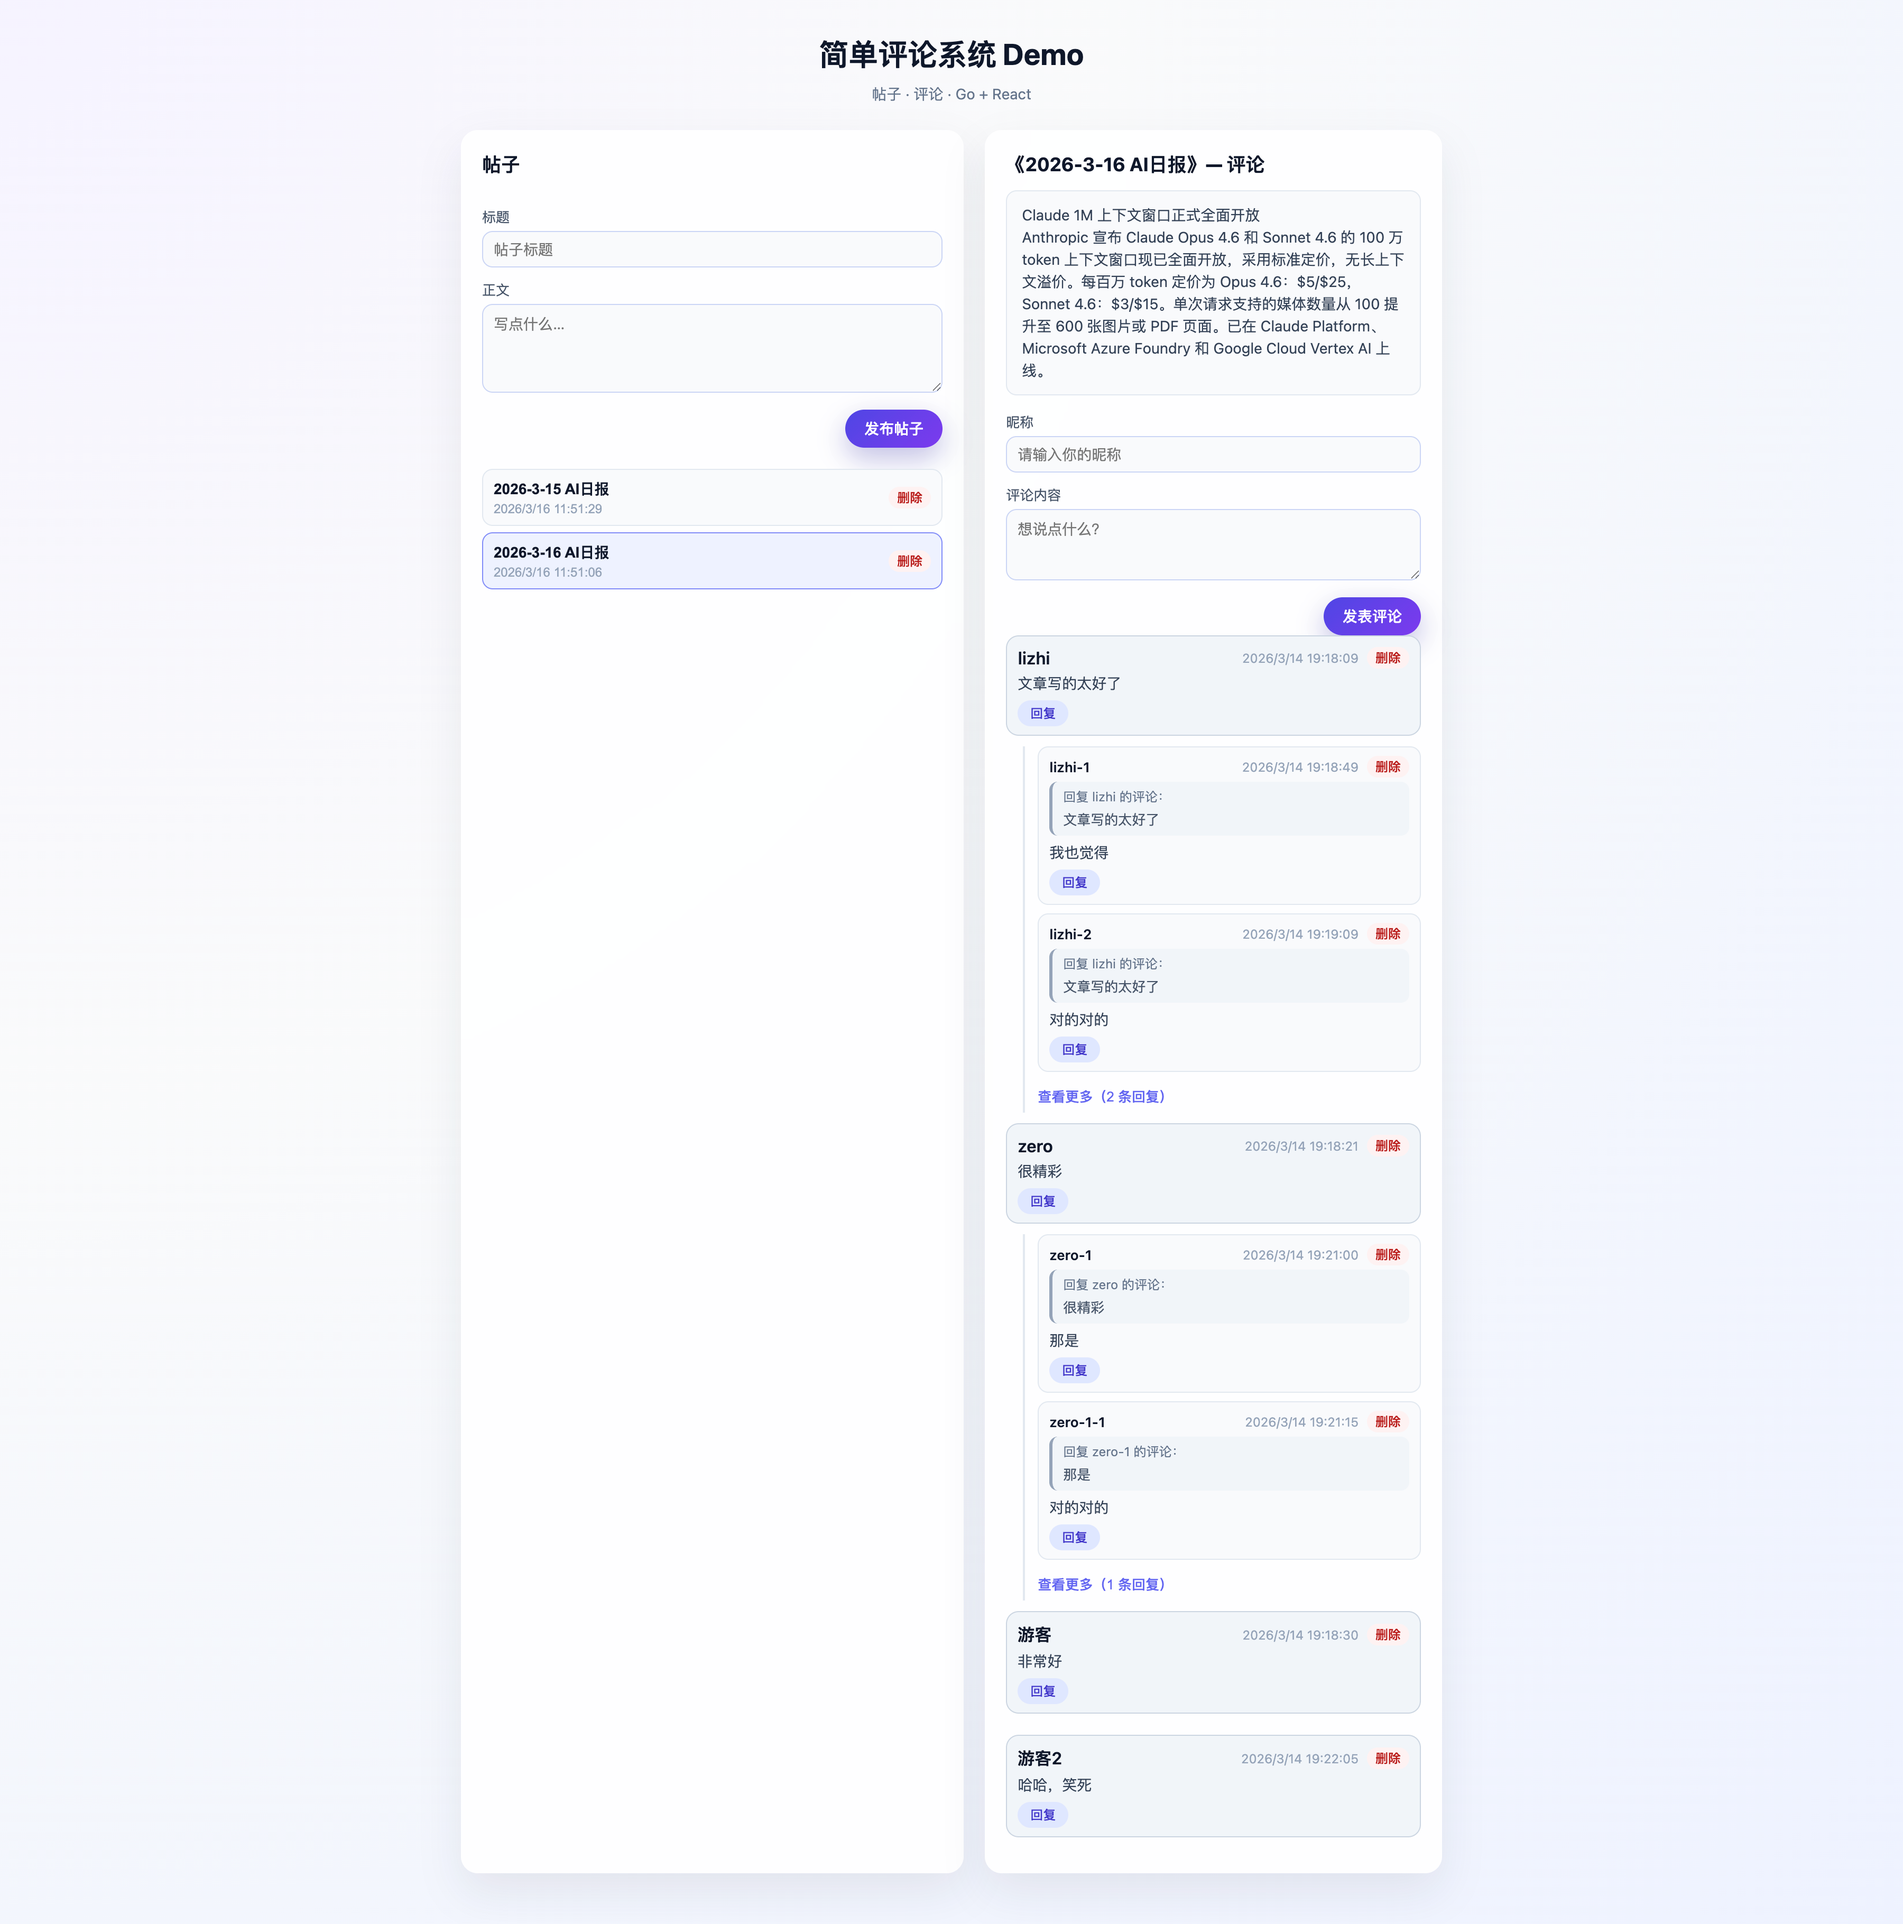
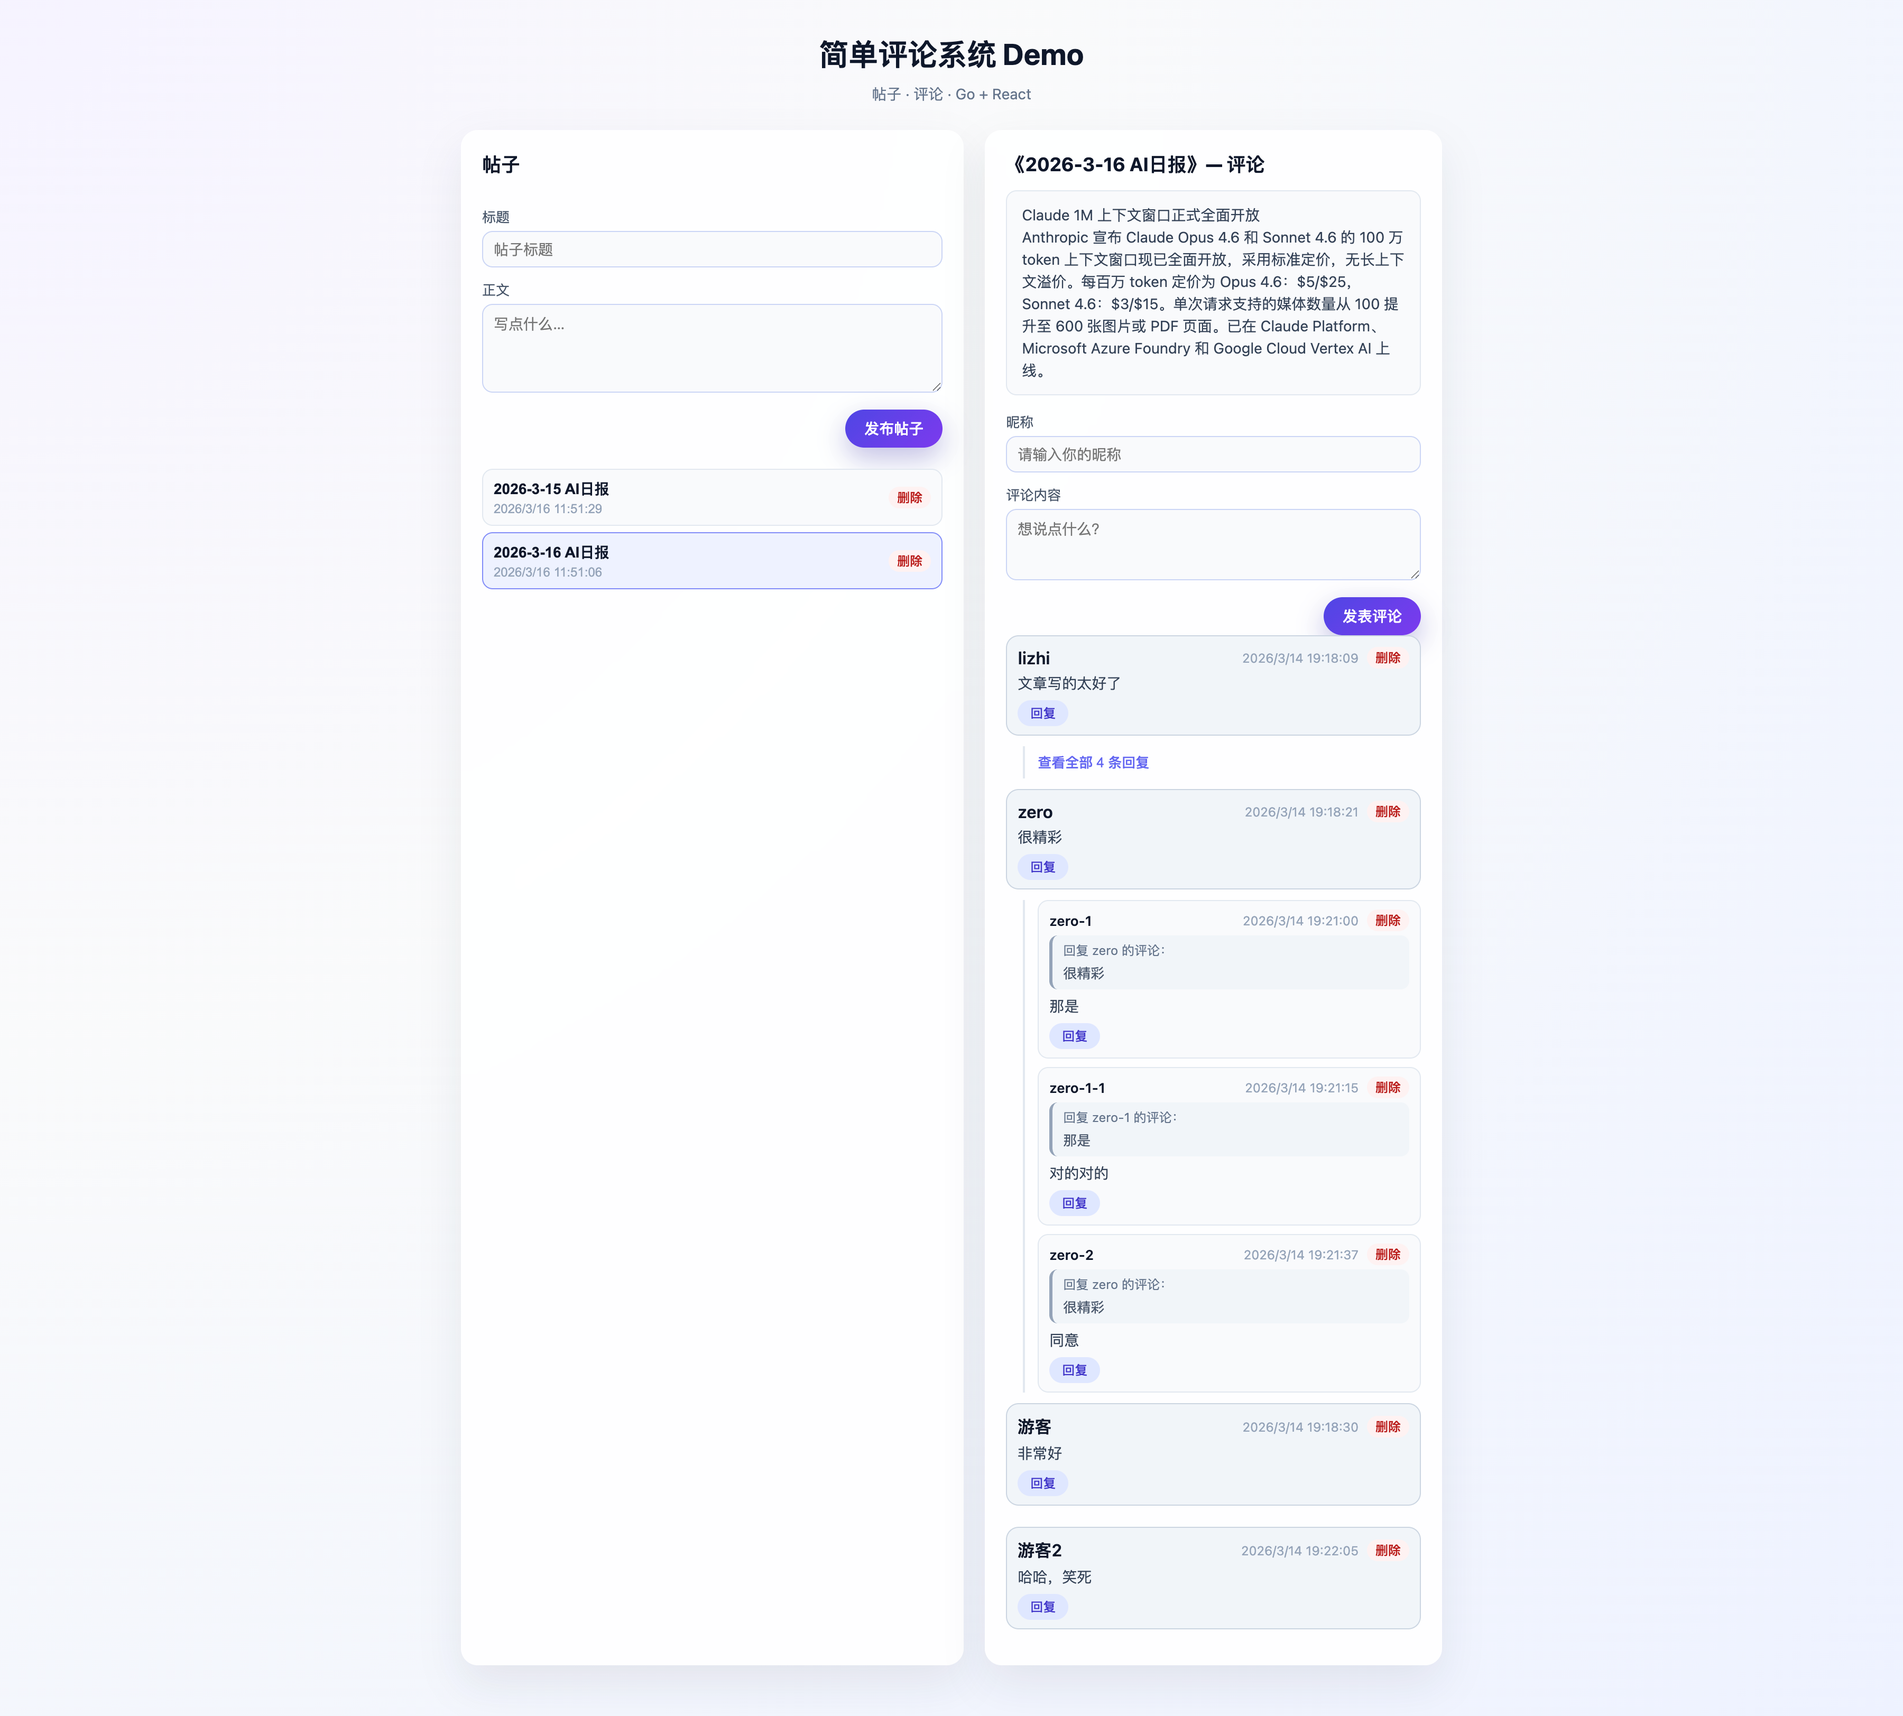
fix: 优化展示逻辑

diff --git a/frontend/src/components/CommentList.tsx b/frontend/src/components/CommentList.tsx
@@ -1,6 +1,5 @@
 import { Comment, RootWithPreview } from "../types/comment";
 
-const PREVIEW_SIZE = 2;
 const REPLIES_PAGE_SIZE = 20;
 
 interface Props {
@@ -97,7 +96,6 @@ export function CommentList({
         {list.map((root) => {
           const rootComment = root.comment;
           const replyCount = root.replyCount ?? 0;
-          const previewReplies = root.replies ?? [];
           const expanded = expandedReplies[rootComment.id] ?? null;
           const loadedReplies = expanded !== null ? expanded : [];
           const hasMoreReplies = replyCount > loadedReplies.length;
@@ -113,24 +111,14 @@ export function CommentList({
                 onDelete={onDelete}
               />
 
-              {/* 二级：先展示最多 2 条预览 */}
               <div className="comment-replies">
-                {!isExpanded &&
-                  previewReplies.slice(0, PREVIEW_SIZE).map((r) => (
-                    <CommentItem
-                      key={r.id}
-                      c={r}
-                      onReply={onReply}
-                      onDelete={onDelete}
-                    />
-                  ))}
-                {!isExpanded && replyCount > PREVIEW_SIZE && (
+                {!isExpanded && replyCount > 0 && (
                   <button
                     type="button"
                     className="comment-more-link"
                     onClick={() => onExpandReplies(rootComment.id)}
                   >
-                    查看更多（{replyCount - PREVIEW_SIZE} 条回复）
+                    查看全部 {replyCount} 条回复
                   </button>
                 )}
 

diff --git a/backend/internal/service/comment_service.go b/backend/internal/service/comment_service.go
@@ -77,7 +77,6 @@ func (s *CommentService) CreateComment(ctx context.Context, in *CreateCommentInp
 
 const (
 	RootsPageSize   = 10
-	PreviewReplies  = 2
 	RepliesPageSize = 20
 )
 
@@ -127,7 +126,7 @@ func (s *CommentService) enrichRepliesWithTarget(ctx context.Context, root *mode
 	return out
 }
 
-// ListRootsWithPreview 一级评论分页，每条约带回复总数与最多 2 条预览回复
+// ListRootsWithPreview 一级评论分页，每条约带回复总数（不再返回预览回复）
 func (s *CommentService) ListRootsWithPreview(ctx context.Context, articleID uint, page, pageSize int) ([]*model.RootWithPreview, int64, error) {
 	if pageSize <= 0 || pageSize > 50 {
 		pageSize = RootsPageSize
@@ -149,21 +148,14 @@ func (s *CommentService) ListRootsWithPreview(ctx context.Context, articleID uin
 	for _, r := range roots {
 		rootIDs = append(rootIDs, r.ID)
 	}
-	previewMap := s.repo.GetPreviewRepliesForRoots(ctx, rootIDs, PreviewReplies)
 	replyCounts := s.repo.CountRepliesByParents(ctx, rootIDs)
 
 	out := make([]*model.RootWithPreview, 0, len(roots))
 	for _, r := range roots {
-		previews := previewMap[r.ID]
-		enriched := s.enrichRepliesWithTarget(ctx, r, previews)
-		replies := make([]model.Comment, 0, len(enriched))
-		for _, p := range enriched {
-			replies = append(replies, *p)
-		}
 		out = append(out, &model.RootWithPreview{
 			Comment:    *r,
 			ReplyCount: replyCounts[r.ID],
-			Replies:    replies,
+			Replies:    []model.Comment{},
 		})
 	}
 	return out, total, nil
